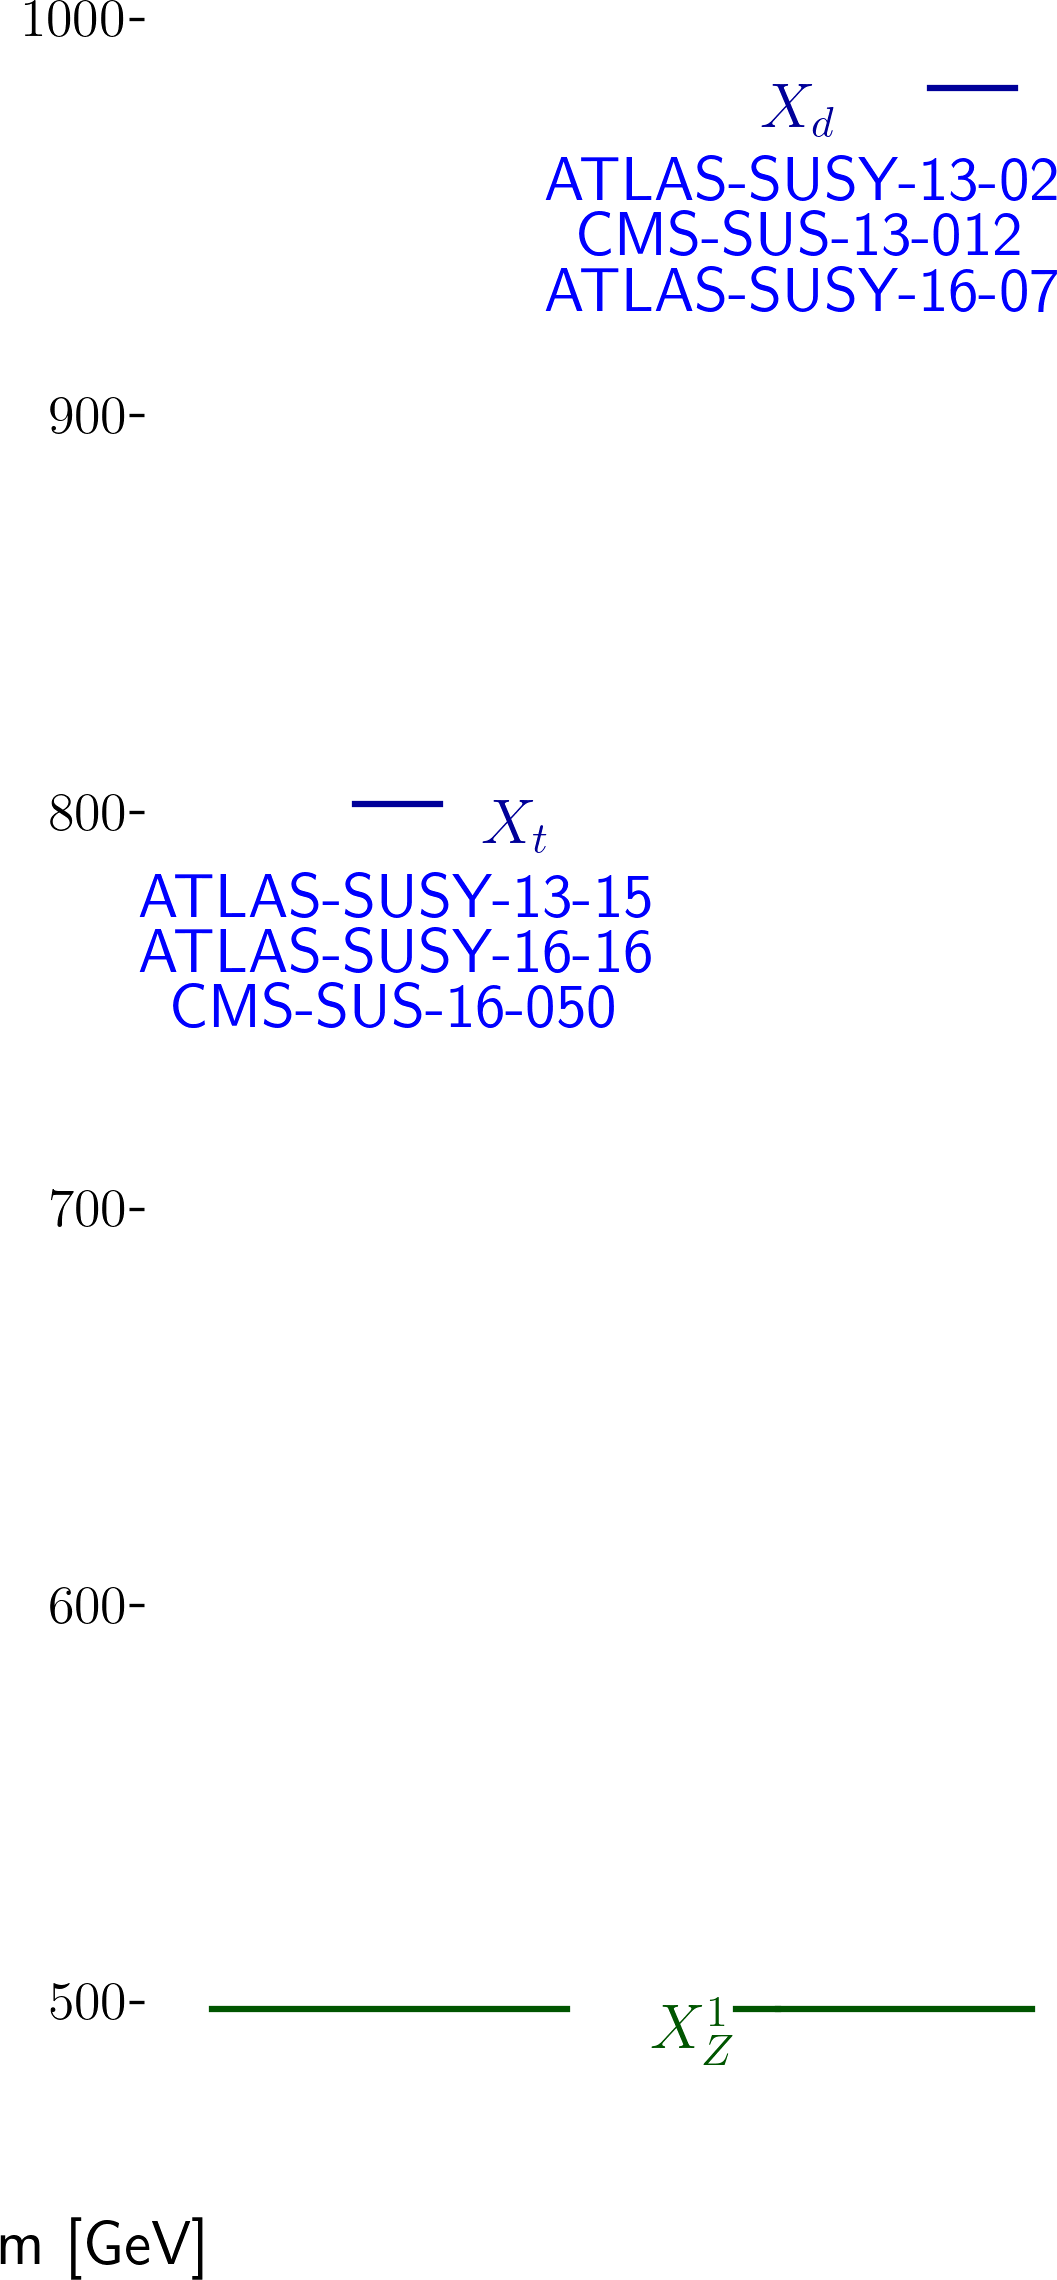
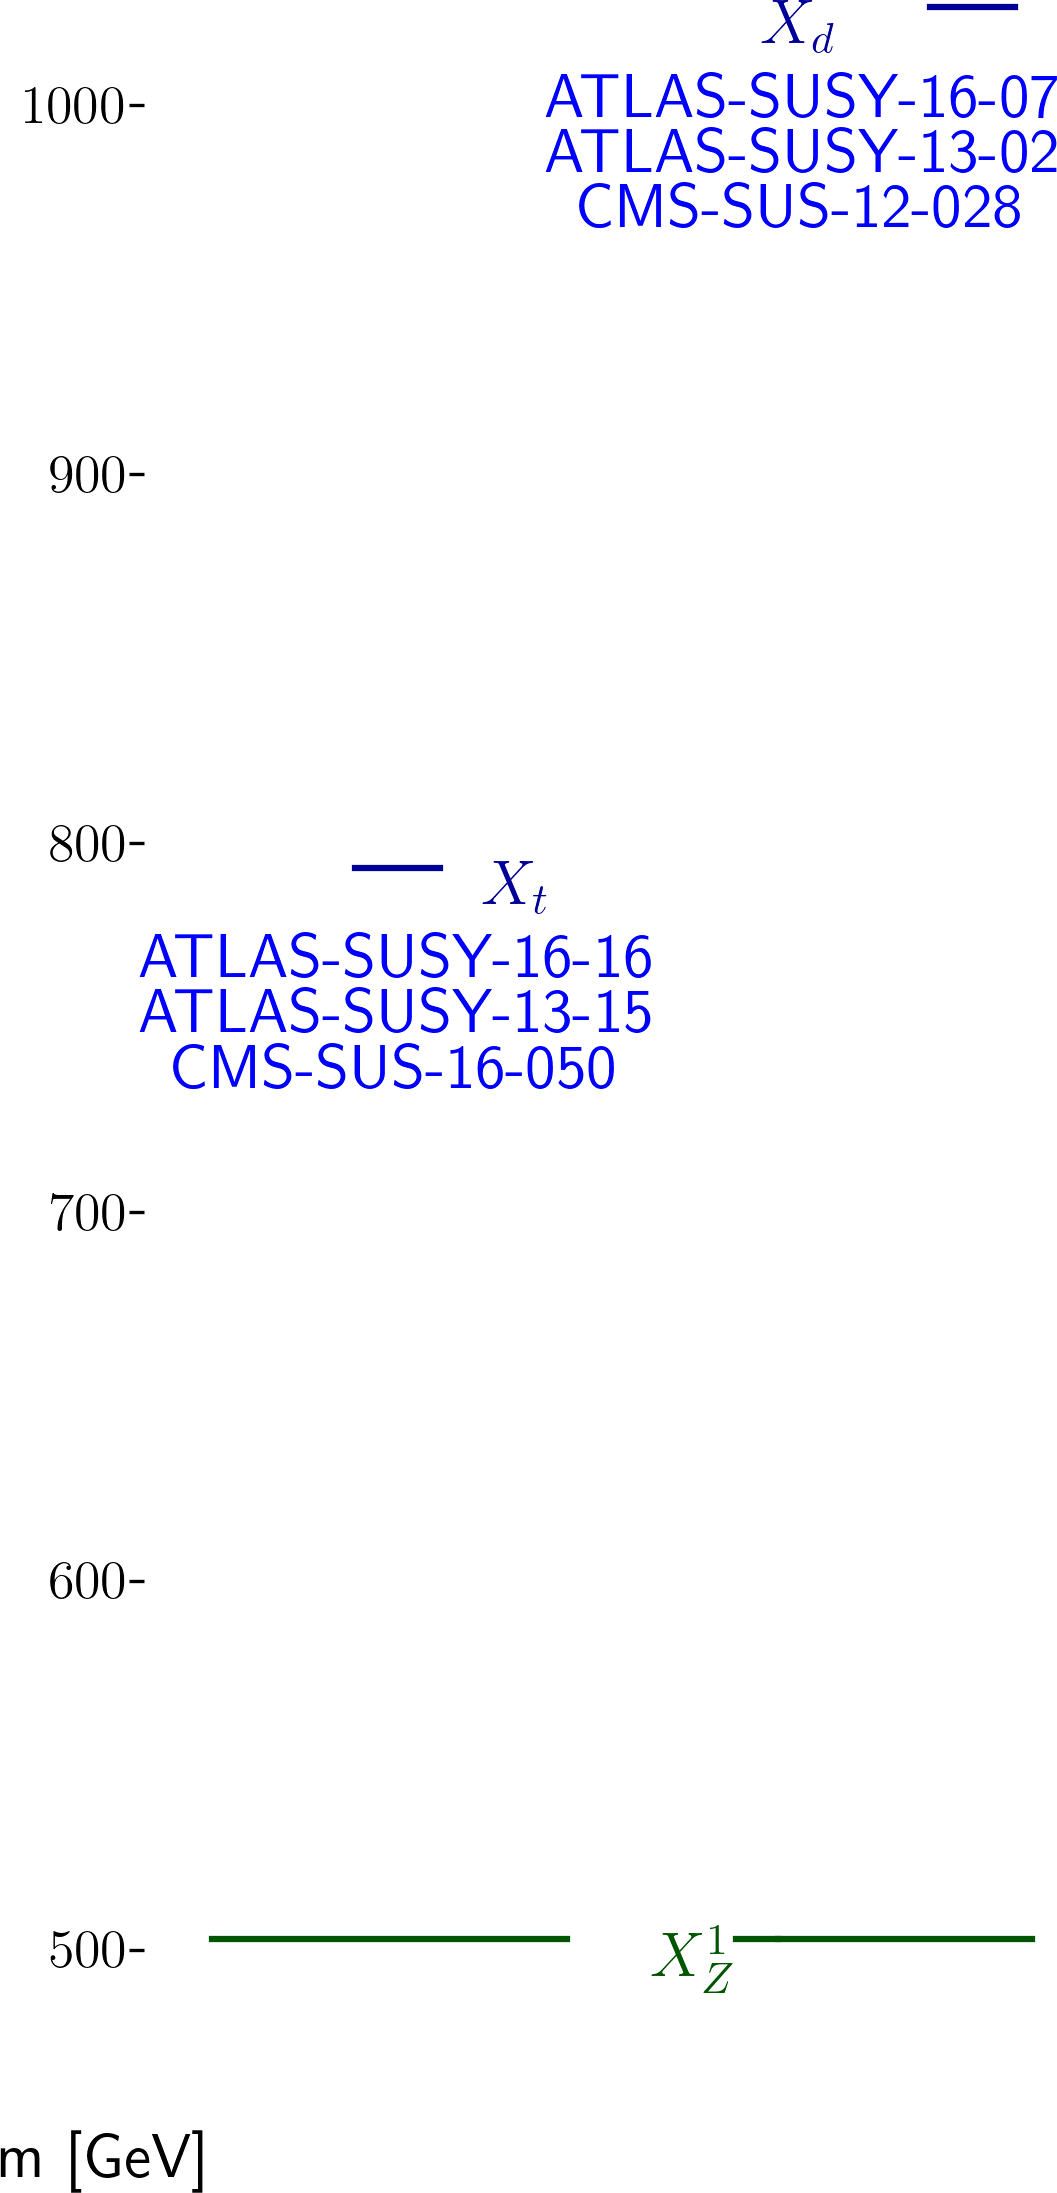
automated update by plotHiscore.py to /scratch-cbe/users/wolfgan.waltenberger/git/smodels.github.io/protomodels/latest/

diff --git a/protomodels/latest/index.html b/protomodels/latest/index.html
@@ -1,31 +1,31 @@
 <html>
 <body>
 <center>
-<table><td><h1>Current best protomodel: K=7.10</h1><td><img height=60px src=https://smodels.github.io/pics/banner.png></table>
+<table><td><h1>Current best protomodel: K=6.83</h1><td><img height=60px src=https://smodels.github.io/pics/banner.png></table>
 </center>
-<b><a href=./hiscore.slha>ProtoModel</a> <a href=./pmodel.py>(dict)</a> produced with <a href=https://smodels.github.io/docs/Validation124>database v1.2.4</a>, combination strategy <a href=./matrix_aggressive.png>aggressive</a> in walker 23 step 255.</b> K plots for: <a href=./M1000022.png?13397835>X<sub>Z</sub><sup>1</sup></a>, <a href=./M1000001.png?13397835>X<sub>d</sub></a>, <a href=./M1000006.png?13397835>X<sub>t</sub></a>. HPD plots for: <a href=./llhd1000001.png?13397835>X<sub>d</sub></a>, <a href=./llhd1000006.png?13397835>X<sub>t</sub></a>. SSM plots for: <a href=./ssm_-1000006_1000006.png?13397835>(x&#772;<sub>t</sub>,X<sub>t</sub>)</a><br>
+<b><a href=./hiscore.slha>ProtoModel</a> <a href=./pmodel.py>(dict)</a> produced with <a href=https://smodels.github.io/docs/Validation124>database v1.2.4</a>, combination strategy <a href=./matrix_aggressive.png>aggressive</a> in walker 32 step 149.</b> K plots for: <a href=./M1000022.png?13402630>X<sub>Z</sub><sup>1</sup></a>, <a href=./M1000001.png?13402630>X<sub>d</sub></a>, <a href=./M1000006.png?13402630>X<sub>t</sub></a>. HPD plots for: <a href=./llhd1000001.png?13402630>X<sub>d</sub></a>, <a href=./llhd1000006.png?13402630>X<sub>t</sub></a>. SSM plots for: <a href=./ssm_-1000006_1000006.png?13402630>(x&#772;<sub>t</sub>,X<sub>t</sub>)</a><br>
 <table width=80%>
 <tr><td>
-<br><b>31 predictions available. Highest r values are:</b><br><ul>
-<li><a href=http://cms-results.web.cern.ch/cms-results/public-results/publications/SUS-19-006/index.html>CMS-SUS-19-006</a>:T2tt r=1.30, r<sub>exp</sub>=0.84<br>
-<li><a href=http://cms-results.web.cern.ch/cms-results/public-results/publications/SUS-19-006/index.html>CMS-SUS-19-006</a>:T2 r=1.18, r<sub>exp</sub>=1.05<br>
-<li><a href=http://cms-results.web.cern.ch/cms-results/public-results/publications/SUS-16-033/index.html>CMS-SUS-16-033</a>:T2 r=1.07, r<sub>exp</sub>=0.78<br>
-<li><a href=http://cms-results.web.cern.ch/cms-results/public-results/publications/SUS-16-049/index.html>CMS-SUS-16-049</a>:T2tt r=0.89, r<sub>exp</sub>=0.75<br>
-<li><a href=http://cms-results.web.cern.ch/cms-results/public-results/publications/SUS-16-036/index.html>CMS-SUS-16-036</a>:T2tt r=0.88, r<sub>exp</sub>=0.57<br>
+<br><b>30 predictions available. Highest r values are:</b><br><ul>
+<li><a href=http://cms-results.web.cern.ch/cms-results/public-results/publications/SUS-19-006/index.html>CMS-SUS-19-006</a>:T2tt r=1.30, r<sub>exp</sub>=0.79<br>
+<li><a href=http://cms-results.web.cern.ch/cms-results/public-results/publications/SUS-19-006/index.html>CMS-SUS-19-006</a>:T2 r=1.17, r<sub>exp</sub>=1.06<br>
+<li><a href=http://cms-results.web.cern.ch/cms-results/public-results/publications/SUS-16-033/index.html>CMS-SUS-16-033</a>:T2 r=1.01, r<sub>exp</sub>=0.76<br>
+<li><a href=http://cms-results.web.cern.ch/cms-results/public-results/publications/SUS-16-049/index.html>CMS-SUS-16-049</a>:T2tt r=0.83, r<sub>exp</sub>=0.68<br>
+<li><a href=http://cms-results.web.cern.ch/cms-results/public-results/publications/SUS-16-036/index.html>CMS-SUS-16-036</a>:T2 r=0.81, r<sub>exp</sub>=0.73<br>
 </ul>
 <td><br><b>K values without analyses: (contribution)</b><br>
 <ul>
-<li> <a href=https://twiki.cern.ch/twiki/bin/view/CMSPublic/PhysicsResultsSUS13012>CMS-SUS-13-012</a>: 3.31 (13%)
 <li> <a href=http://cms-results.web.cern.ch/cms-results/public-results/publications/SUS-16-050/index.html>CMS-SUS-16-050</a>: 3.31 (13%)
+<li> <a href=https://twiki.cern.ch/twiki/bin/view/CMSPublic/PhysicsResultsSUS12028>CMS-SUS-12-028</a>: 3.31 (13%)
 <li> <a href=https://atlas.web.cern.ch/Atlas/GROUPS/PHYSICS/PAPERS/SUSY-2013-02/>ATLAS-SUSY-2013-02</a>: 3.25 (13%)
 <li> <a href=https://atlas.web.cern.ch/Atlas/GROUPS/PHYSICS/PAPERS/SUSY-2013-15/>ATLAS-SUSY-2013-15</a>: 2.87 (14%)
-<li> <a href=https://atlas.web.cern.ch/Atlas/GROUPS/PHYSICS/PAPERS/SUSY-2016-16/>ATLAS-SUSY-2016-16</a>: 1.45 (19%)
-<li> <a href=https://atlas.web.cern.ch/Atlas/GROUPS/PHYSICS/PAPERS/SUSY-2016-07/>ATLAS-SUSY-2016-07</a>: -1.22 (28%)
-<td><img width=600px src=./texdoc.png?1606397835>
-<br><font size=-1>Last updated: Thu Nov 26 14:37:15 2020</font>
+<li> <a href=https://atlas.web.cern.ch/Atlas/GROUPS/PHYSICS/PAPERS/SUSY-2016-16/>ATLAS-SUSY-2016-16</a>: 1.44 (19%)
+<li> <a href=https://atlas.web.cern.ch/Atlas/GROUPS/PHYSICS/PAPERS/SUSY-2016-07/>ATLAS-SUSY-2016-07</a>: -1.23 (29%)
+<td><img width=600px src=./texdoc.png?1606402630>
+<br><font size=-1>Last updated: Thu Nov 26 15:57:10 2020</font>
 </table><table style="width:80%">
-<td width=45%><img height=580px src=./ruler.png?1606397835><td width=55%><img height=380px src=./decays.png?1606397835>
-<font size=-3><iframe type="text/html" height="220px" width="100%s" frameborder="0" src="./rawnumbers.html?1606397835"></iframe></font>
+<td width=45%><img height=580px src=./ruler.png?1606402630><td width=55%><img height=380px src=./decays.png?1606402630>
+<font size=-3><iframe type="text/html" height="220px" width="100%s" frameborder="0" src="./rawnumbers.html?1606402630"></iframe></font>
 </table>
 </body>
 </html>

diff --git a/protomodels/latest/rawnumbers.html b/protomodels/latest/rawnumbers.html
@@ -5,6 +5,6 @@
 <tr><td><a href=https://atlas.web.cern.ch/Atlas/GROUPS/PHYSICS/PAPERS/SUSY-2013-15/>ATLAS-SUSY-2013-15</a></td><td>em</td> <td>tNboost</td><td>T2tt</td><td>5</td><td>3.3 +/- 0.7</td><td style="text-align:right">0.9 &sigma;</td><td style="text-align:right">X<sub>t</sub></td></tr>
 <tr><td><a href=https://atlas.web.cern.ch/Atlas/GROUPS/PHYSICS/PAPERS/SUSY-2016-07/>ATLAS-SUSY-2016-07</a></td><td>em</td> <td>2j_Meff_1200</td><td>T2</td><td>611</td><td>526 +/- 31</td><td style="text-align:right">2.2 &sigma;</td><td style="text-align:right">X<sub>d</sub></td></tr>
 <tr><td><a href=https://atlas.web.cern.ch/Atlas/GROUPS/PHYSICS/PAPERS/SUSY-2016-16/>ATLAS-SUSY-2016-16</a></td><td>em</td> <td>tN_med</td><td>T2tt</td><td>50</td><td>36.3 +/- 6.6</td><td style="text-align:right">1.5 &sigma;</td><td style="text-align:right">X<sub>t</sub></td></tr>
-<tr><td><a href=https://twiki.cern.ch/twiki/bin/view/CMSPublic/PhysicsResultsSUS13012>CMS-SUS-13-012</a></td><td>ul</td> <td>-</td><td>T2</td><td> 26.3 fb </td><td> 16.4 fb</td><td style="text-align:right">1.2 &sigma;</td><td style="text-align:right">X<sub>d</sub></td></tr>
-<tr><td><a href=http://cms-results.web.cern.ch/cms-results/public-results/publications/SUS-16-050/index.html>CMS-SUS-16-050</a></td><td>ul</td> <td>-</td><td>T2tt</td><td> 102.5 fb </td><td> 47.5 fb</td><td style="text-align:right">2.3 &sigma;</td><td style="text-align:right">X<sub>t</sub></td></tr>
+<tr><td><a href=https://twiki.cern.ch/twiki/bin/view/CMSPublic/PhysicsResultsSUS12028>CMS-SUS-12-028</a></td><td>ul</td> <td>-</td><td>T2</td><td> 25.8 fb </td><td> 16.8 fb</td><td style="text-align:right">1.1 &sigma;</td><td style="text-align:right">X<sub>d</sub></td></tr>
+<tr><td><a href=http://cms-results.web.cern.ch/cms-results/public-results/publications/SUS-16-050/index.html>CMS-SUS-16-050</a></td><td>ul</td> <td>-</td><td>T2tt</td><td> 116.5 fb </td><td> 52.3 fb</td><td style="text-align:right">2.4 &sigma;</td><td style="text-align:right">X<sub>t</sub></td></tr>
 </table>

diff --git a/protomodels/latest/pmodel.py b/protomodels/latest/pmodel.py
@@ -1,1 +1,1 @@
-{'masses': {1000022: 488.341, 1000001: 972.619, 1000006: 791.857}, 'ssmultipliers': {(1000022, 1000022): 9396.6, (1000001, 1000001): 2.331, (-1000001, 1000001): 2.331, (-1000001, -1000001): 2.331, (1000001, 1000022): 7.602, (-1000001, 1000022): 7.602, (1000006, 1000006): 0.904, (-1000006, 1000006): 0.904, (-1000006, -1000006): 0.904, (1000006, 1000022): 0.904, (-1000006, 1000022): 0.904, (1000001, 1000006): 0.904, (-1000006, 1000001): 0.904, (-1000001, 1000006): 0.904, (-1000006, -1000001): 0.904}, 'decays': {1000022: {}, 1000001: {(1000022, 1): 1.0}, 1000006: {(1000022, 6): 1.0}}, 'timestamp': 'Thu Nov 26 14:36:58 2020', 'Z': 3.298, 'K': 7.1, 'walkerid': 23, 'step': 255, 'codever': '1.0', 'dbver': '1.2.4'}
+{'masses': {1000022: 492.789, 1000001: 1016.569, 1000006: 783.312}, 'ssmultipliers': {(1000022, 1000022): 0.0, (1000001, 1000001): 2.531, (-1000001, 1000001): 2.531, (-1000001, -1000001): 2.531, (1000001, 1000022): 2.556, (-1000001, 1000022): 2.679, (1000006, 1000006): 0.9, (-1000006, 1000006): 0.9, (-1000006, -1000006): 0.9, (1000006, 1000022): 0.9, (-1000006, 1000022): 0.9, (1000001, 1000006): 0.9, (-1000006, 1000001): 0.9, (-1000001, 1000006): 0.9, (-1000006, -1000001): 0.9}, 'decays': {1000022: {}, 1000001: {(1000022, 1): 1.0}, 1000006: {(1000022, 6): 1.0}}, 'timestamp': 'Thu Nov 26 15:56:53 2020', 'Z': 3.256, 'K': 6.827, 'walkerid': 32, 'step': 149, 'codever': '1.0', 'dbver': '1.2.4'}
